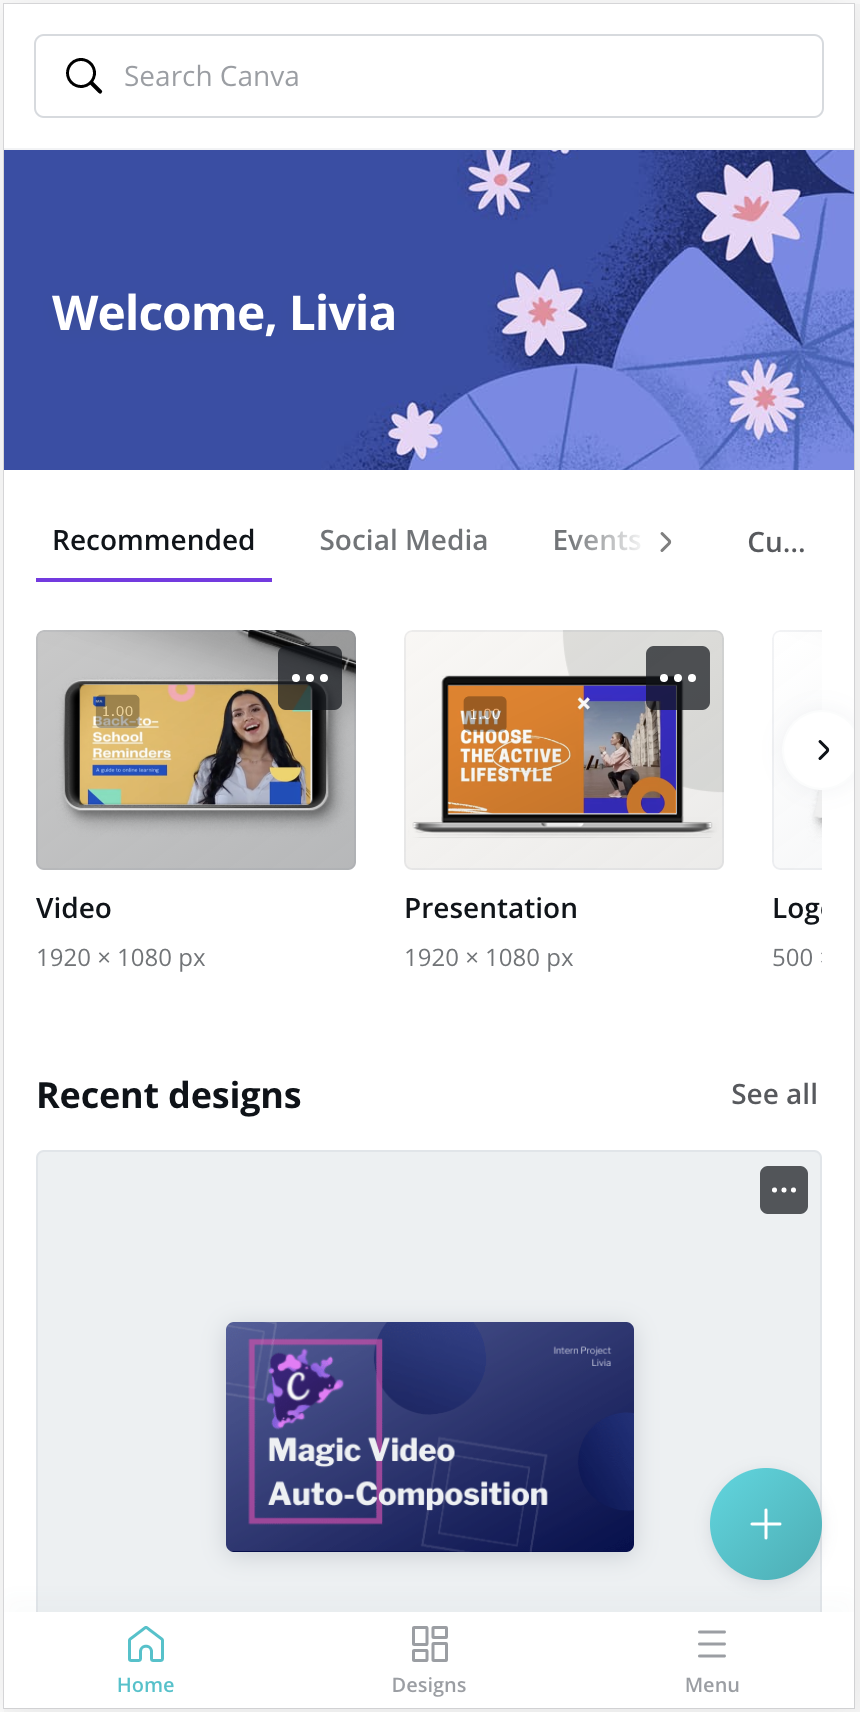
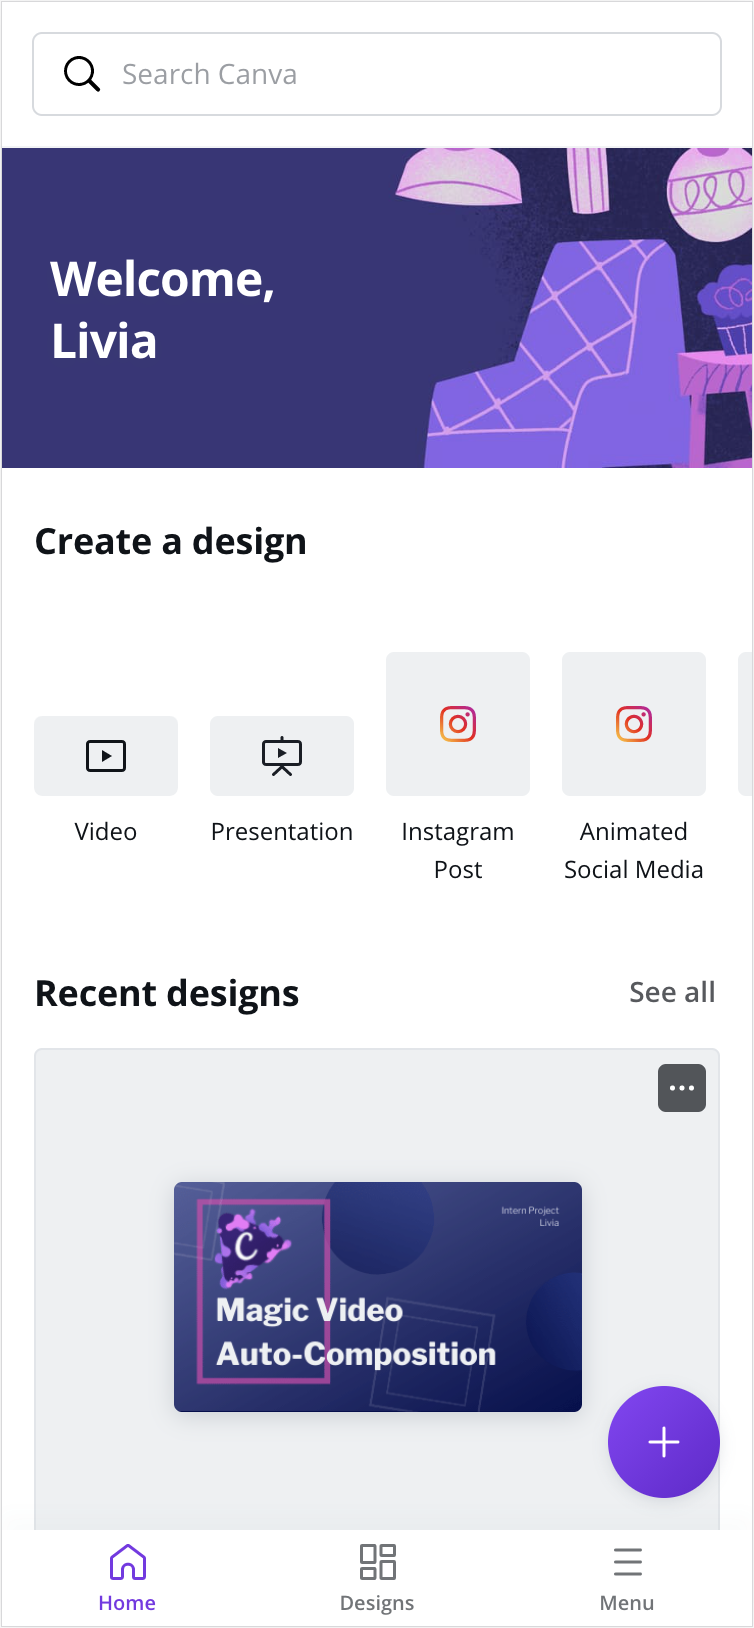
add mobile version menu

diff --git a/src/Components/Homepage/Homepage.tsx b/src/Components/Homepage/Homepage.tsx
@@ -2,6 +2,7 @@ import React, { useState } from "react";
 import styles from "./Homepage.module.css";
 import menu from "../../Media/dropdown.png";
 import menuContent from "../../Media/menuContent.png";
+import phoneMenu from "../../Media/phoneMenu.png";
 
 type Props = {
   openModal: (event: React.MouseEvent<HTMLDivElement, MouseEvent>) => void;
@@ -25,25 +26,27 @@ export const Homepage: React.FC<Props> = ({ openModal }) => {
   };
   return (
     <div className={styles.CanvaHomePage} onClick={closeOption}>
-      <button
-        onClick={toggleOption}
-        className={styles.createDesignButton}
-        >
+      <button onClick={toggleOption} className={styles.createDesignButton}>
         Create a design
         <p className={styles.phoneDisplay}>+</p>
       </button>
-      {dropdown && <>
-        <img src={menu} className={styles.menuContainer} alt="menu"/>
+      {dropdown && (
+        <>
+          <img src={menu} className={styles.menuContainer} alt="menu"/>
           <img
           src={menuContent}
           onClick={showModal}
           className={styles.menuContent}
           alt="menu content"
           />
-          </>
-          
-          }
-
+          <img
+            src={phoneMenu}
+            onClick={showModal}
+            className={styles.phoneMenuContainer}
+            alt="menu"
+          />
+        </>
+      )}
     </div>
   );
 };

diff --git a/src/Components/Homepage/Homepage.module.css b/src/Components/Homepage/Homepage.module.css
@@ -11,7 +11,11 @@
   margin: auto;
 }
 
-.phoneDisplay{
+.phoneMenuContainer {
+  display: none;
+}
+
+.phoneDisplay {
   display: none;
 }
 
@@ -139,4 +143,20 @@
     display: inline;
     font-size: 35px;
   }
+  .phoneMenuContainer {
+    display: block;
+    height: 100vh;
+    width: 100vw;
+    animation: pan 1s ease-in;
+  }
+  
+  @keyframes pan {
+    0% {
+      transform: scale(1) translateY(100px);
+    }
+    100% {
+      transform: scale(1) translateY(0px);
+    }
+  }
+  
 }

diff --git a/src/Components/Mood/Mood.module.css b/src/Components/Mood/Mood.module.css
@@ -82,7 +82,6 @@
 .up {
   transform: rotate(-135deg);
   -webkit-transform: rotate(-135deg);
-  /* margin-top: 25px; */
   margin: 20px 0 15px;
   left: 60px;
 }
